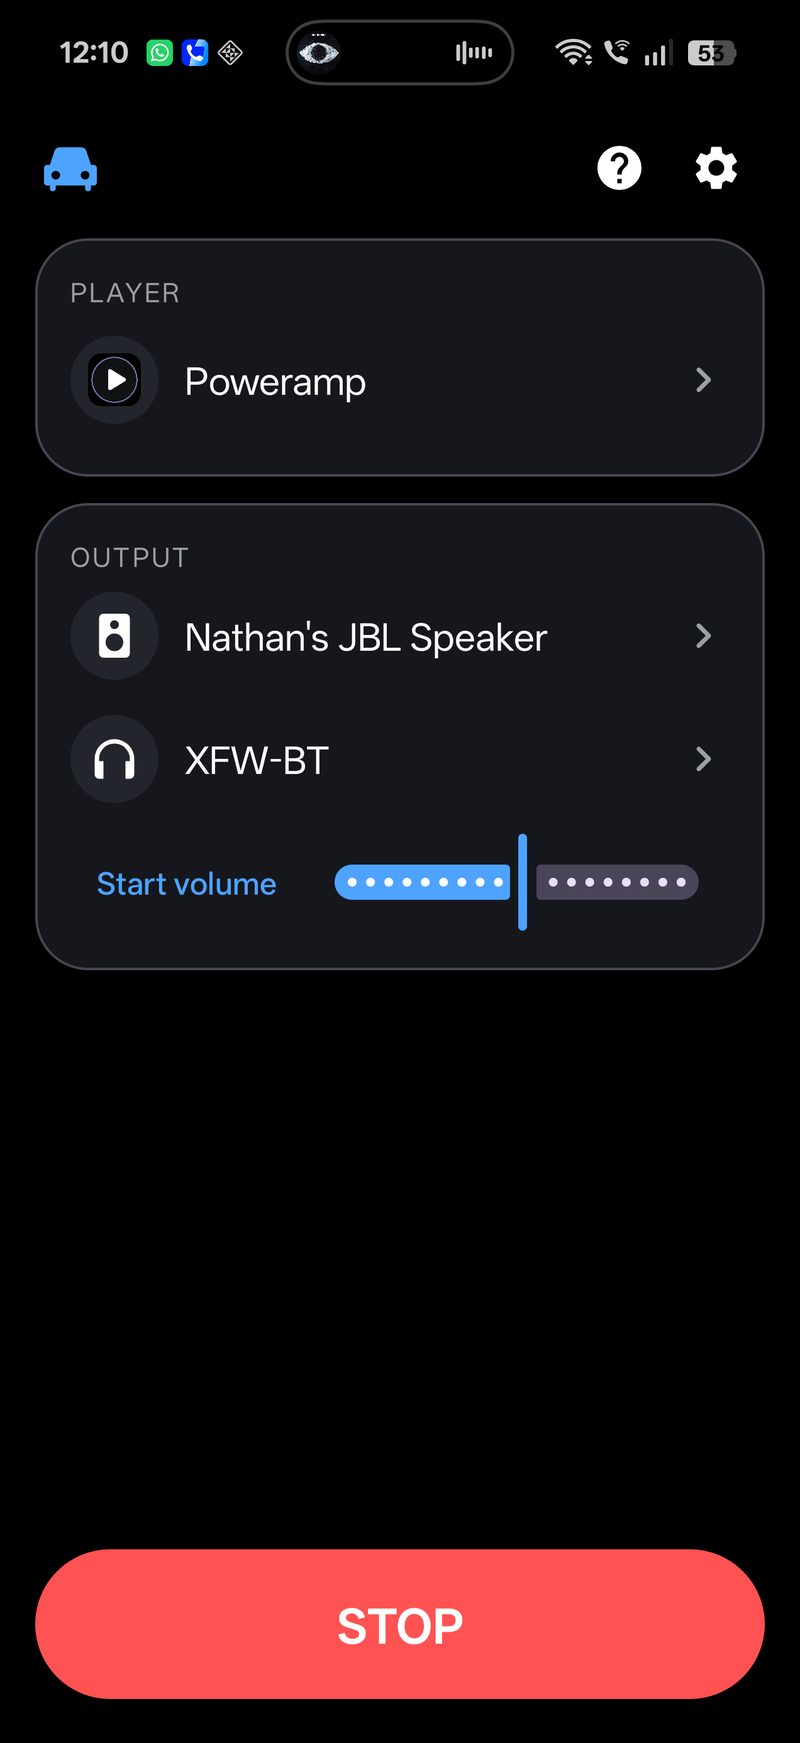
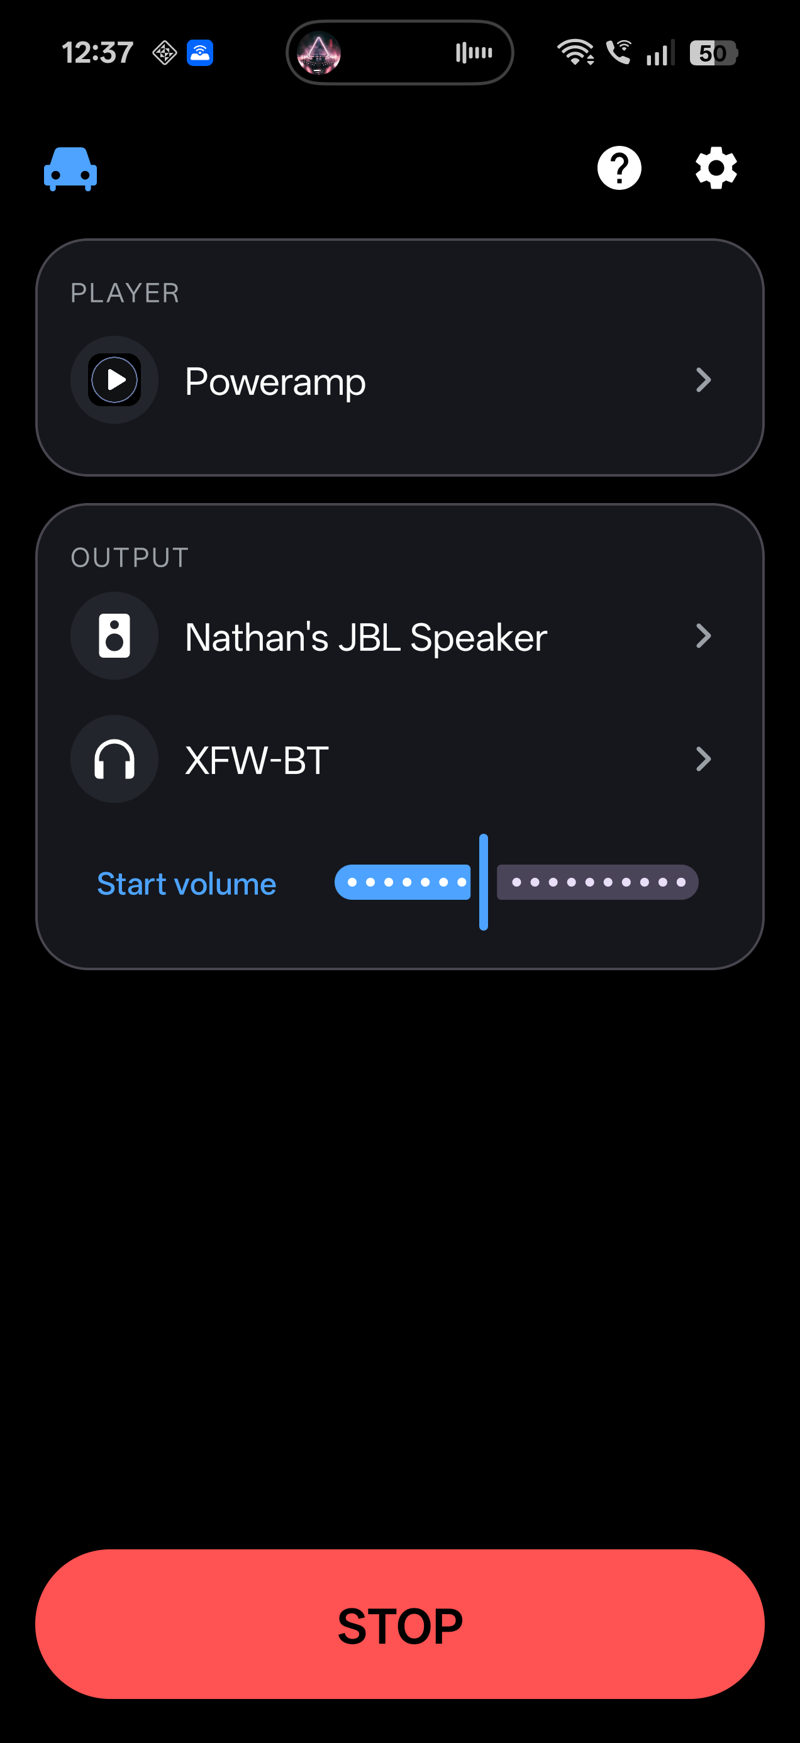
Refresh screenshots for final build; add VERIFICATION.md
Retake the six README screenshots on the shipped build (single "Start
volume" slider, red+black ON widget/button) downscaled to 800px, and add
the on-device verification report.

diff --git a/VERIFICATION.md b/VERIFICATION.md
@@ -1,0 +1,76 @@
+# LazyCar on-device verification
+
+Device: OnePlus 15 (CPH2745), Android 16, adb `192.168.0.161` (network; port drifts).
+Build under test: single "Start volume" model + volume watchdog + widget-as-service +
+state-broadcast spinner fix + `onColor` threshold 0.18 (commit on `main`).
+
+## Task 1 - UI
+
+| Check | Result | Evidence |
+|---|---|---|
+| Accent applied everywhere, no lime unless chosen | PASS | Accent = electric blue (`0xFF4DA3FF`). Header car glyph, "Start volume" label, slider, Settings switches, Accent swatch all blue; no lime. `shots/main.png`, `shots/settings.png` |
+| Header logo = launcher icon = widget glyph | PASS | Identical `pathData` across `ic_car_glyph` (header `brandIcon` + widget) and `ic_launcher_foreground`/`ic_launcher_mono`. Launcher + header + widget all the same car. `shots/main.png`, `shots/widget_on.png`, `shots/home_idle.png` |
+| Spinners show during STARTING | PASS | App GO button -> "Starting..." + circular spinner; widget -> grey pill + spinner (glyph hidden). `shots/app_starting.png` |
+
+## Task 2 - Volume (top priority)
+
+Root cause found on device: OnePlus Audio sharing centralises volume for the group; the
+per-device switcher sliders (`volume_seekbar`, content-desc "Connected to <name>.") are
+`enabled=false` / `clickable=false` (display-only) whenever the two speakers are grouped
+("Shared listening"). The old per-device `ACTION_SET_PROGRESS` + tap/drag gesture path
+therefore could never move them:
+
+```
+volume 'XFW-BT' target=96000.0 got=97000.0 via=set_progress   # coincidental (slider already ~97000)
+volume 'Nathan's JBL Speaker' target=48000.0 got=97000.0 via=drag   # 30% requested, never moved
+```
+
+Fix: one "Start volume" slider driving `AudioManager.setStreamVolume(STREAM_MUSIC, ...)`
+(the shared group level), with a watchdog because the group forming / 2nd A2DP sink
+connecting resets STREAM_MUSIC (seen jumping to max = "blast").
+
+| Check | Result | Evidence |
+|---|---|---|
+| Single "Start volume" slider (not per-device) | PASS | `shots/main.png` / `app_on.png`; Prefs `vol`/`volOn` default 40% on, migrates old `vol1`. |
+| Group volume changes verifiably | PASS | `volumeOnly` 18 -> 78 (both speakers), confirmed `dumpsys audio` STREAM_MUSIC bt_a2dp. |
+| Holds target after grouping AND play (not max) | PASS | Cold GO: `poll done grouped=true`, `state -> 2`, `watchdog done: got=70 target=64±10`. `cmd media_session volume --stream 3 --get` = 70/160 (~44%, target 40%); dumpsys bt_a2dp = 70. Not max. |
+| Watchdog catches the group reset-to-max | PASS | `volume correct (initial): 160 -> 70` and `volume correct (watchdog): 160 -> 70` (re-asserted after the group pushed it to 160). |
+| Live apply | PASS | `volumeOnly` path (slider release while ON) runs `enforceStartVolume`. |
+| STOP restores pre-GO level | PASS | Snapshot taken at start of `run()` (before BT/connect reset it). `restore: music volume -> index 18` then `dumpsys` bt_a2dp = 18 (exact). |
+
+A2DP absolute volume quantises coarsely (~10 on the 0..160 scale, max index 160), so the
+watchdog accepts within one step (±10) - enough to stop the blast while landing ~40%.
+
+## Task 3 - Matrix
+
+| Case | Result | Evidence |
+|---|---|---|
+| A cold (BT off -> GO) | PASS | `svc bluetooth disable` -> GO: `snapshot: btWasOn=false`, `TapService clicked confirm 'Allow' ok=true`, both connect, `grouped=true`, `state -> 2`. |
+| C all-on warm GO, ON not gated by volume watchdog | PASS | ON transition fires at `doneAt+300`; watchdog runs in background so a satisfied GO still reaches ON quickly. |
+| D STOP restores snapshot | PASS | `restore: music playing -> paused`; `restore: music volume -> index 18`; JBL `already connected -> left`, XFW `connected -> disconnected` (only what GO connected); `tile 'mobile data' was on -> off ok=true`, `tile 'hotspot' was on -> off ok=true`; `restore: bt on -> off` (snapBt=false). `state -> 0`. |
+| E GO again | PASS | Repeated GO cycles ran cleanly (12:09, 12:14, 12:20, 12:27, 12:36). |
+| Hotspot + data ON for an A/D pair | PASS (tile-level) | GO: `tile 'mobile data' was off -> on ok=true`, `tile 'hotspot' was off -> on ok=true`; `settings get global mobile_data` 0 -> 1. STOP restores both off; `mobile_data` 1 -> 0. NOTE: `tether_wifi_state` reads `null` on this ROM (hotspot state not stored there), so hotspot is confirmed at the QS-tile level, not via that global. Enabling the phone's hotspot also drops its own Wi-Fi client, which repeatedly killed network-adb mid-run. |
+
+## Widget / service (urgent fixes)
+
+| Check | Result | Evidence |
+|---|---|---|
+| Widget tap opens NO LazyCar UI | PASS | After both GO-tap and STOP-tap, `mCurrentFocus` stayed `com.android.launcher`. Tap -> `GoService` `ACTION_TOGGLE` (`getForegroundService`), which derives GO vs STOP itself. |
+| Stuck spinner fixed | PASS | While Main open, GO button went STARTING -> STOP live (`ACTION_STATE` broadcast receiver); widget went busy-spinner -> ON. `setState` refreshes widget + broadcasts every time, plus a refresh scheduled at the 30s stuck-guard. `shots/app_starting.png` -> `shots/app_on.png`. |
+| Widget ON = red pill + black car; IDLE = accent pill + car; busy = grey + spinner | PASS | `shots/widget_on.png` (red + black car). Dropped the stop-square icon; removed `ic_stop_white`. |
+| `onColor` threshold 0.18 | PASS | Blue accent now yields black glyph/text (STOP text black on red; widget IDLE car black on blue), not white. |
+
+## Timings (approx, from logcat)
+
+- Cold GO (BT off -> ON): ~19 s (`step GO sequence took 19316ms`) - includes BT-enable dialog, hotspot+data (6.5 s), share/group poll.
+- Warm GO: reaches ON quickly; volume watchdog continues ~12 s in the background.
+- STOP -> IDLE: ~19 s (network-tile session 6.5 s + settle).
+- `volumeOnly` / live slider: immediate set + short 3 s enforce window.
+
+## Notes / limitations
+
+- Install over network-adb repeatedly wedged; root cause was ADB-install verification (Play
+  Protect) stalling on the flaky Wi-Fi at 90%. Disabling `verifier_verify_adb_installs` and
+  using `adb push` + `pm install -r` made installs reliable. No uninstall was ever performed.
+- Turning the Wi-Fi hotspot on drops the phone's Wi-Fi client, so network-adb disconnects
+  during any hotspot GO; verification of the hotspot A/D pair is therefore tile-level.
